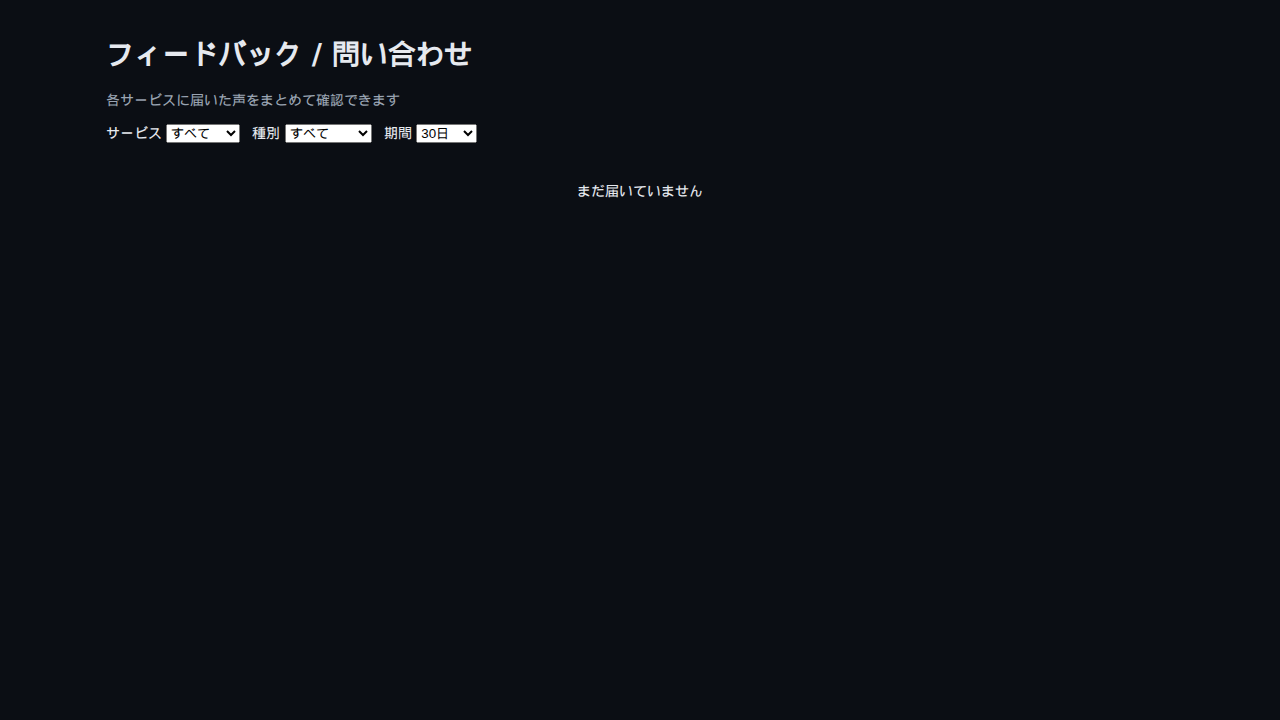
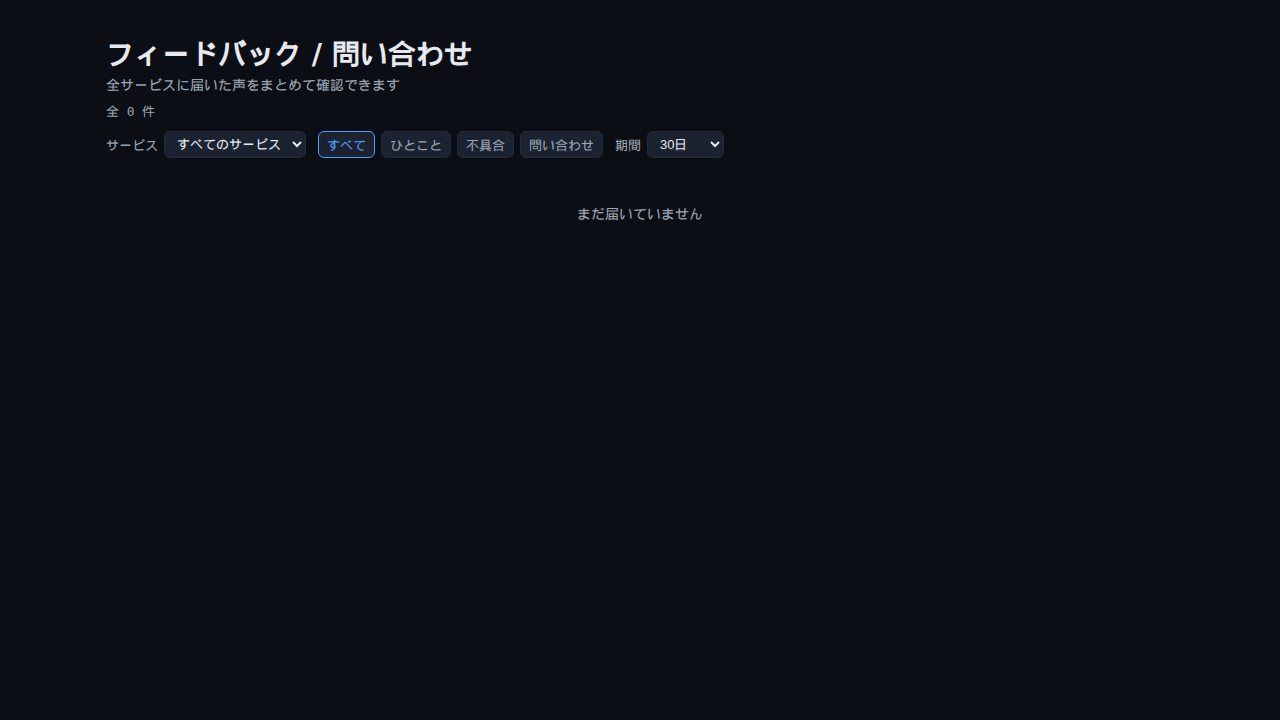
test(flow:e2e): feedback-inbox restyle E2E green (4 specs)
UI 変更 (件数サマリ + kind segmented chips) で spec 更新 (UC1-S3 chip 操作 + RE-UC1-S1 件数サマリ)
+ visual baseline 再生成。route-mock fixture に counts 補完。4 green flaky なし。

Changed region(s): [[0.0625, 0.0917, 0.5625, 0.3056]]

diff --git a/e2e/feedback-inbox.spec.ts b/e2e/feedback-inbox.spec.ts
@@ -1,12 +1,26 @@
 import { test, expect } from "@playwright/test";
-import type { FeedbackInboxVM } from "../src/features/feedback-inbox/inbox.js";
+import type {
+  FeedbackInboxVM,
+  FeedbackInboxItem,
+} from "../src/features/feedback-inbox/inbox.js";
 
-const vm: FeedbackInboxVM = {
-  services: [
-    { slug: "hana-memo", name: "ハナメモ" },
-    { slug: "naze-bako", name: "なぜ箱" },
-  ],
-  items: [
+/** items から counts を補完して VM を組む (API の buildInboxVM と同等)。 */
+function withCounts(
+  items: FeedbackInboxItem[],
+  services: { slug: string; name: string }[],
+): FeedbackInboxVM {
+  const byKind = { feedback: 0, bug: 0, inquiry: 0 };
+  for (const i of items) byKind[i.kind] += 1;
+  return { items, services, counts: { total: items.length, byKind } };
+}
+
+const services = [
+  { slug: "hana-memo", name: "ハナメモ" },
+  { slug: "naze-bako", name: "なぜ箱" },
+];
+
+const vm: FeedbackInboxVM = withCounts(
+  [
     {
       serviceSlug: "hana-memo",
       serviceName: "ハナメモ",
@@ -35,12 +49,13 @@ const vm: FeedbackInboxVM = {
       pulledAt: "2026-06-18T00:00:00.000Z",
     },
   ],
-};
+  services,
+);
 
-const emptyVm: FeedbackInboxVM = {
-  services: [{ slug: "hana-memo", name: "ハナメモ" }],
-  items: [],
-};
+const emptyVm: FeedbackInboxVM = withCounts(
+  [],
+  [{ slug: "hana-memo", name: "ハナメモ" }],
+);
 
 test("UC1-S1: 横断一覧 + kind バッジ + 新しい順 (L2-1)", async ({ page }) => {
   await page.route("**/api/feedback/inbox**", (r) => r.fulfill({ json: vm }));
@@ -72,17 +87,23 @@ test("UC1-S4: 空状態", async ({ page }) => {
   });
 });
 
-test("UC1-S3: kind フィルタで絞り込み (refetch)", async ({ page }) => {
+test("UC1-S3: kind segmented chips で絞り込み (refetch)", async ({ page }) => {
   await page.route("**/api/feedback/inbox**", (r) => {
     const kind = new URL(r.request().url()).searchParams.get("kind");
-    const filtered =
-      kind === "bug"
-        ? { ...vm, items: vm.items.filter((i) => i.kind === "bug") }
-        : vm;
-    return r.fulfill({ json: filtered });
+    const items =
+      kind === "bug" ? vm.items.filter((i) => i.kind === "bug") : vm.items;
+    return r.fulfill({ json: withCounts(items, services) });
   });
   await page.goto("/feedback");
   await expect(page.getByTestId("feedback-item")).toHaveCount(3);
-  await page.getByLabel("種別で絞り込む").selectOption("bug");
+  // kind は segmented chips (role=group)。「不具合」chip をクリックして絞り込み。
+  const group = page.getByRole("group", { name: "種別で絞り込む" });
+  await group.getByText("不具合", { exact: true }).click();
   await expect(page.getByTestId("feedback-item")).toHaveCount(1);
+});
+
+test("RE-UC1-S1: 件数サマリ (全 N 件) を表示", async ({ page }) => {
+  await page.route("**/api/feedback/inbox**", (r) => r.fulfill({ json: vm }));
+  await page.goto("/feedback");
+  await expect(page.getByTestId("count-summary")).toContainText("全 3 件");
 });

diff --git a/docs/AI_LOG/D20260618_019_resume_continuous.md b/docs/AI_LOG/D20260618_019_resume_continuous.md
@@ -30,3 +30,23 @@
     P1: open SEC 0。P2: 中断セッションなし (全 完了)。P4.2: revise_inbox-ux_20260618_unified-list-and-styling
     に 001_REVISE_SPEC + 002_REVISE_PLAN 存在 + 101_REVISE_IMPL_REPORT 不在 → 実装着手。
     Class A (実装+テスト、git tracked)。auto-pick + auto-invoke。実装後 P4.5 E2E → P4.4 視覚 → P4.7 release へ。
+
+- id: D20260618-019-02
+  question: 反復1 結果 + 反復2 auto-pick
+  chosen: /flow:design --review-only (P4.4 Design gate b、restyle の視覚レビュー)
+  chosen_type: auto-recommended
+  context: |
+    反復1 (/flow:tdd feedback-inbox inbox-ux) 完了 — VM counts + View token styling + kind chips、
+    本機能 +4 / 全 394 green、生値 hex 単独ゼロ、commit 7048bde+a853430。P4.2 充足 (101)。
+    UI 変更 (FeedbackInboxView restyle) → P4.4 Design gate(b) = restyle の視覚レビュー (新 #2.6
+    token-conformance チェック適用)。Class A。auto-pick。次 P4.5 E2E (baseline 更新) → P4.7 release。
+
+- id: D20260618-019-03
+  question: 反復2 結果 + 反復3 auto-pick
+  chosen: /flow:e2e feedback-inbox (P4.5 E2E gate、UI 変更で baseline 更新 + kind chips spec 修正)
+  chosen_type: auto-recommended
+  context: |
+    反復2 (/flow:design --review-only) 完了 — 視覚レビュー green (#2.6 逸脱なし)、commit。P4.4 充足。
+    UI 変更 (件数サマリ + kind select→segmented chips + styled controls) で既存 e2e spec UC1-S3
+    (kind を selectOption) が破綻 + visual snapshot 不一致 → P4.5 E2E gate: spec を chips 操作に更新 +
+    baseline 再生成 + green 確認。Class A (ローカル headless)。auto-pick。次 P4.7 release (Class B)。

diff --git a/docs/feedback-inbox/103_feedback-inbox_E2E_REPORT.md b/docs/feedback-inbox/103_feedback-inbox_E2E_REPORT.md
@@ -11,7 +11,8 @@
 | UC1-S4 空状態 | 同 | ✅ pass | visual baseline `feedback-inbox-empty.png` |
 | UC1-S3 kind フィルタ絞り込み (refetch) | 同 | ✅ pass | select 変更で 3→1 件 |
 
-- 3 passed / 0 failed / 0 flaky (初回 baseline 作成 → クリーン再実行で安定確認)
+- 4 passed / 0 failed / 0 flaky (revise inbox-ux で restyle → baseline 更新 + RE-UC1-S1 件数サマリ + UC1-S3 を kind segmented chips 操作に更新)
+- 旧: 3 passed (初回 baseline)。revise inbox-ux (2026-06-18) で UI 変更 (件数サマリ + token 絞り込みバー + kind chips) → visual baseline 再生成 + spec 更新、4 specs green。
 
 ## flaky / quarantine
 - なし